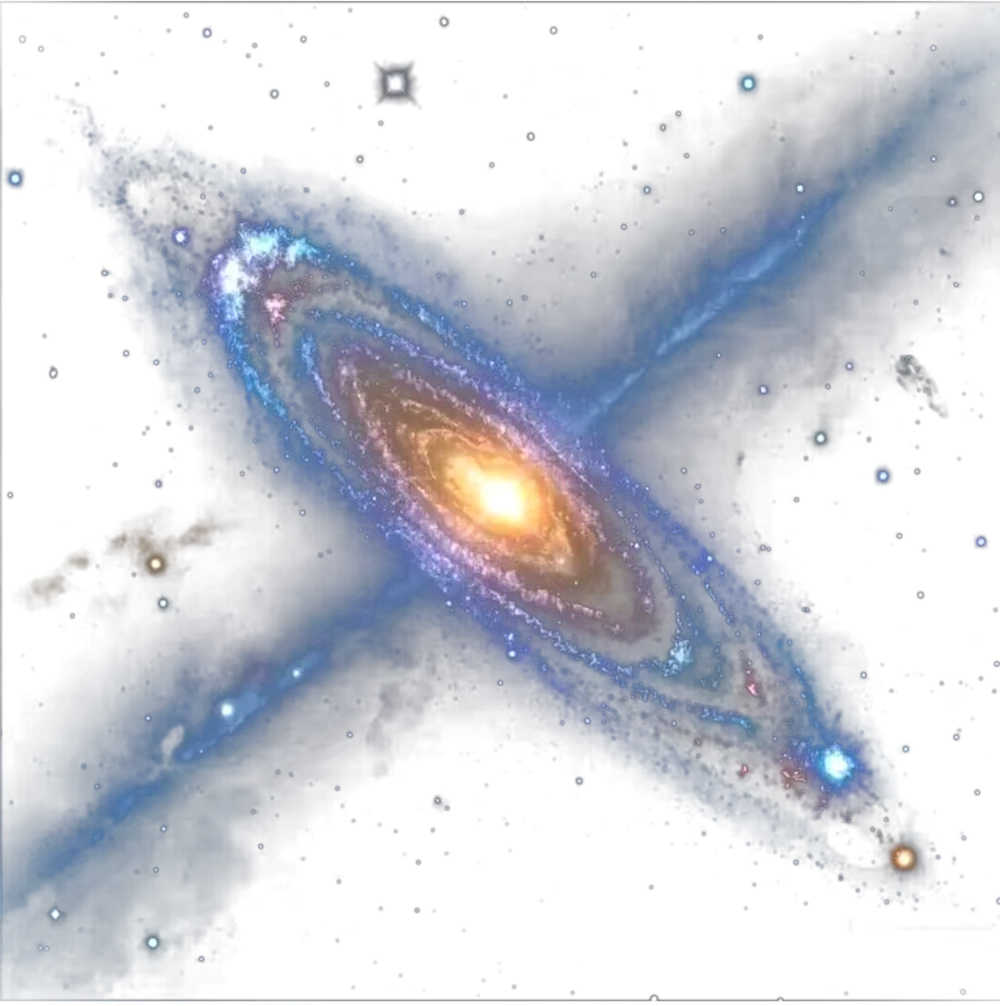
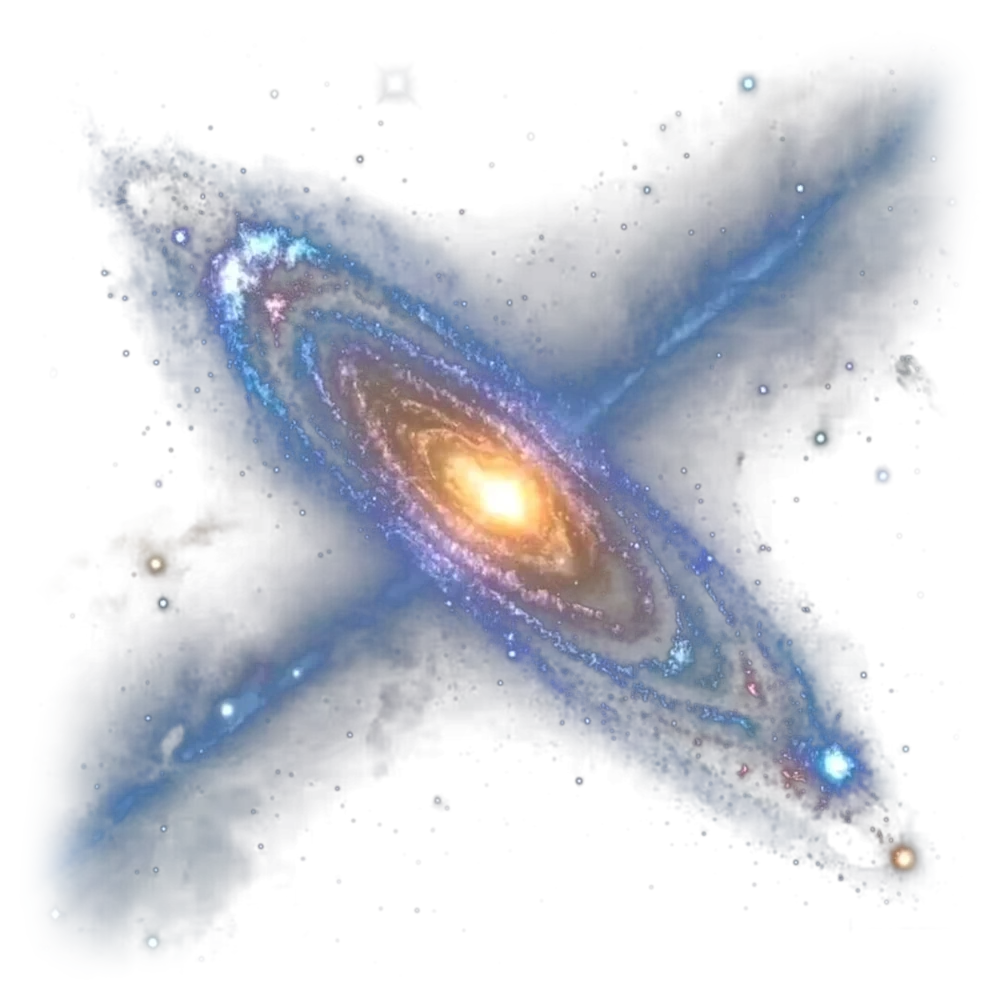
feat: 银河系背景融入壁纸（距离渐变透明）+ 双环形轨道缓慢转动（v1.7.3）

diff --git a/index.html b/index.html
@@ -11,7 +11,7 @@
   <meta property="og:description" content="拾光的个人博客：技术笔记、读书心得、效率工具与生活碎片。">
   <meta property="og:type" content="website">
   <link rel="icon" href="favicon.svg" type="image/svg+xml">
-  <link rel="stylesheet" href="assets/css/style.css?v=1.7.0.1">
+  <link rel="stylesheet" href="assets/css/style.css?v=1.7.2">
   <script>
     (function () {
       try {
@@ -89,10 +89,13 @@
       </div>
       <div class="hero-art reveal" style="--d:.15s" aria-hidden="true">
         <div class="galaxy-float">
-          <img class="galaxy-body" src="assets/img/hero/galaxy-cutout.webp?v=1.7.0" alt="NASA 实拍旋涡星系（主体抠图）">
+          <img class="galaxy-body" src="assets/img/hero/galaxy-cutout.webp?v=1.7.3" alt="NASA 实拍旋涡星系（主体抠图）">
           <div class="galaxy-ring">
             <div class="ring-spin">
               <span class="galaxy-satellite"></span>
+            </div>
+            <div class="ring-spin ring-spin--outer">
+              <span class="galaxy-satellite galaxy-satellite--b"></span>
             </div>
           </div>
         </div>

diff --git a/assets/css/style.css b/assets/css/style.css
@@ -2069,7 +2069,14 @@ html[data-photo="dark"] .float-chip {
   inset: 0;
   border-radius: 50%;
   border: 1.5px dashed rgba(165, 195, 255, 0.55);
-  animation: ring-spin 16s linear infinite;
+  animation: ring-spin 30s linear infinite;
+}
+.ring-spin--outer {
+  inset: -14% -19%;
+  border-style: dotted;
+  border-color: rgba(165, 195, 255, 0.32);
+  animation-duration: 48s;
+  animation-direction: reverse;
 }
 .galaxy-satellite {
   position: absolute;
@@ -2082,6 +2089,16 @@ html[data-photo="dark"] .float-chip {
   background: #dcebff;
   box-shadow: 0 0 16px 5px rgba(150, 195, 255, 0.85);
 }
+.galaxy-satellite--b {
+  top: 50%;
+  left: -4.5px;
+  margin-left: 0;
+  margin-top: -4.5px;
+  width: 9px;
+  height: 9px;
+  background: #ffe9c9;
+  box-shadow: 0 0 16px 5px rgba(255, 205, 140, 0.8);
+}
 @keyframes ring-spin {
   to { transform: rotate(360deg); }
 }
@@ -2093,5 +2110,5 @@ html[data-photo="dark"] .float-chip {
   to { transform: rotate(360deg); }
 }
 @media (prefers-reduced-motion: reduce) {
-  .galaxy-orb, .galaxy-orb::after { animation: none; }
+  .galaxy-float, .ring-spin { animation: none; }
 }
